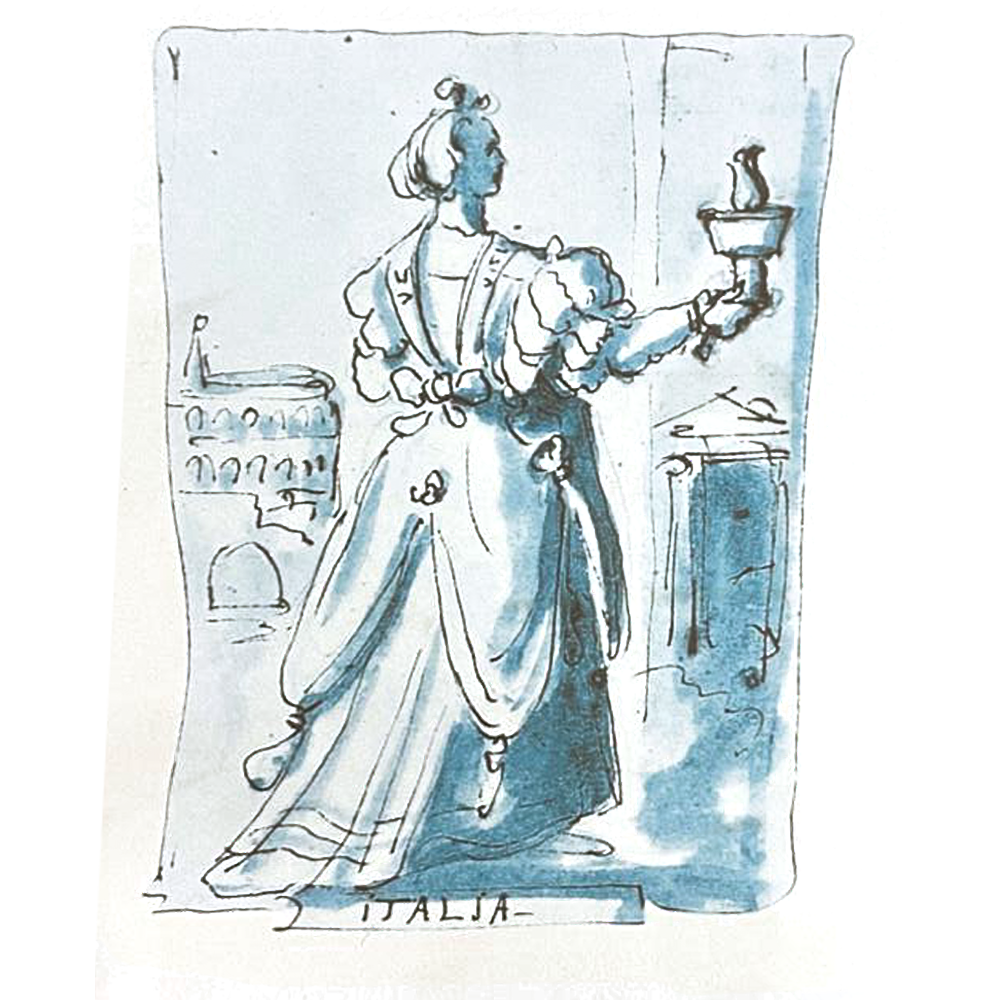
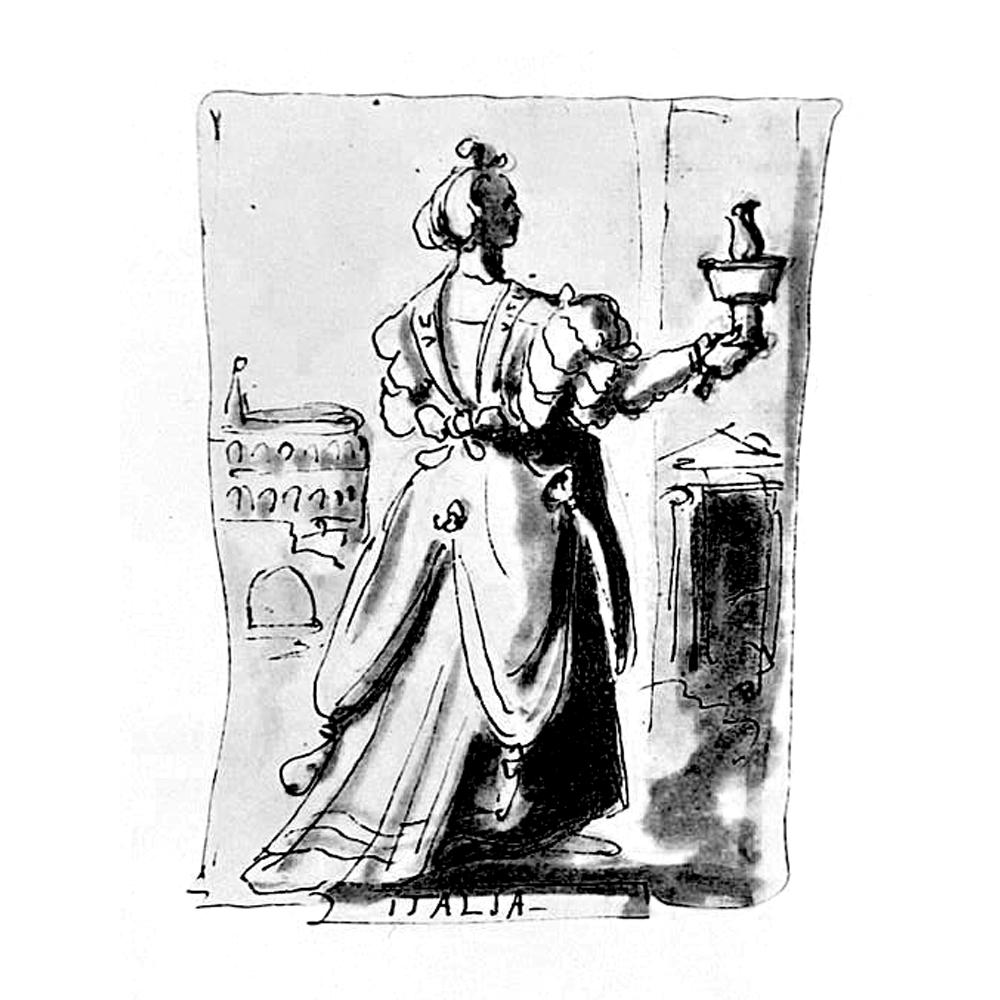
update

diff --git a/js/scacchi.js b/js/scacchi.js
@@ -7,7 +7,7 @@ const svgCache = new Map();
 export function clearSvgCache() {
   svgCache.clear();
 }
-const VECTOR_CATEGORY_IDS = new Set(['scacchi', 'necropoli', 'poesie', 'stemmi', 'articoli']);
+const VECTOR_CATEGORY_IDS = new Set(['scacchi', 'scacchicomplessi', 'necropoli', 'poesie', 'stemmi', 'articoli']);
 
 export function isVectorCategorySrc(src) {
   for (const id of VECTOR_CATEGORY_IDS) {
@@ -18,6 +18,22 @@ export function isVectorCategorySrc(src) {
 
 export function isScacchiSrc(src) {
   return src.includes('immagini/scacchi/');
+}
+
+export function isScacchiComplessiSrc(src) {
+  return src.includes('immagini/scacchicomplessi/');
+}
+
+export function isScacchiComplessiOnly(selectedCategories) {
+  return selectedCategories.size === 1 && selectedCategories.has('scacchicomplessi');
+}
+
+export function hasScacchiComplessiCategory(selectedCategories) {
+  return selectedCategories.has('scacchicomplessi');
+}
+
+export function hasChessLikeCategory(selectedCategories) {
+  return hasScacchiCategory(selectedCategories) || hasScacchiComplessiCategory(selectedCategories);
 }
 
 export function isNecropoliSrc(src) {
@@ -566,7 +582,7 @@ export async function loadScacchiAsset(src, options, loadImage) {
   if (isNecropoliSrc(src)) {
     return loadNecropoliAsset(src, options.color, loadImage);
   }
-  if (options.outline) {
+  if (options.outline && isScacchiSrc(src)) {
     const base = await loadOutlineBase(src, options.strokeWeight, loadImage);
     return tintImage(base, options.color);
   }
@@ -599,7 +615,7 @@ export function getPoesieGapPx(format) {
 
 export function getVectorGapPx(format, selectedCategories) {
   const gaps = [];
-  if (hasScacchiCategory(selectedCategories)) gaps.push(getScacchiGapPx(format));
+  if (hasChessLikeCategory(selectedCategories)) gaps.push(getScacchiGapPx(format));
   if (hasStemmiCategory(selectedCategories)) gaps.push(getScacchiGapPx(format));
   if (hasPoesieCategory(selectedCategories)) gaps.push(getPoesieGapPx(format));
   if (!gaps.length) return null;
@@ -627,15 +643,16 @@ export function getVectorFitScale(selectedCategories, outline = false) {
   if (isPoesieOnly(selectedCategories)) return POESIE_FIT_SCALE;
   if (isStemmiOnly(selectedCategories)) return STEMMI_FIT_SCALE;
   if (isScacchiOnly(selectedCategories)) return getScacchiFitScale(true, outline);
+  if (isScacchiComplessiOnly(selectedCategories)) return getScacchiFitScale(true, outline);
   if (hasVectorCategory(selectedCategories) && !isMultiCategorySet(selectedCategories)) {
     const id = [...selectedCategories][0];
     if (id === 'necropoli') return 1;
     if (id === 'articoli') return ARTICOLI_FIT_SCALE;
     if (id === 'poesie') return POESIE_FIT_SCALE;
     if (id === 'stemmi') return STEMMI_FIT_SCALE;
-    if (id === 'scacchi') return getScacchiFitScale(true, outline);
+    if (id === 'scacchi' || id === 'scacchicomplessi') return getScacchiFitScale(true, outline);
   }
-  if (hasScacchiCategory(selectedCategories)) {
+  if (hasChessLikeCategory(selectedCategories)) {
     return getScacchiFitScale(false, outline);
   }
   if (hasStemmiCategory(selectedCategories)) {

diff --git a/index.html b/index.html
@@ -176,6 +176,6 @@
         </div>
       </main>
     </div>
-    <script type="module" src="js/main.js?v=20260605"></script>
+    <script type="module" src="js/main.js?v=20260617"></script>
   </body>
 </html>

diff --git a/js/main.js b/js/main.js
@@ -10,6 +10,7 @@ import { sortCategories } from './categories.js';
 import { randomHexColors } from './colors.js';
 import {
   hasScacchiCategory,
+  hasScacchiComplessiCategory,
   hasNecropoliCategory,
   hasPoesieCategory,
   hasStemmiCategory,
@@ -262,6 +263,7 @@ function hasElementColorControl(selectedCategories) {
   return (
     hasDisegniCategory(selectedCategories) ||
     hasScacchiCategory(selectedCategories) ||
+    hasScacchiComplessiCategory(selectedCategories) ||
     hasNecropoliCategory(selectedCategories) ||
     hasPoesieCategory(selectedCategories) ||
     hasStemmiCategory(selectedCategories) ||

diff --git a/js/sampler.js b/js/sampler.js
@@ -11,7 +11,7 @@ const PIECE_GROUPS = [
 export function getSimilarityGroup(src) {
   const name = src.split('/').pop().replace(/\.[^.]+$/, '').toLowerCase();
 
-  if (src.includes('immagini/scacchi/')) {
+  if (src.includes('immagini/scacchi/') || src.includes('immagini/scacchicomplessi/')) {
     for (const [group, pattern] of PIECE_GROUPS) {
       if (pattern.test(name)) return group;
     }

diff --git a/js/categories.js b/js/categories.js
@@ -5,6 +5,7 @@ export const CATEGORY_DISPLAY_ORDER = [
   'necropoli',
   'poesie',
   'scacchi',
+  'scacchicomplessi',
 ];
 
 export function sortCategories(categories) {

diff --git a/js/categoryLogos.js b/js/categoryLogos.js
@@ -4,6 +4,7 @@ export const CATEGORY_LOGOS = {
   necropoli: 'immagini/logomarialuisa.svg',
   poesie: 'immagini/logogori.svg',
   scacchi: 'immagini/logoantonio.svg',
+  scacchicomplessi: 'immagini/logoantonio.svg',
   stemmi: 'immagini/logoannamori.svg',
 };
 